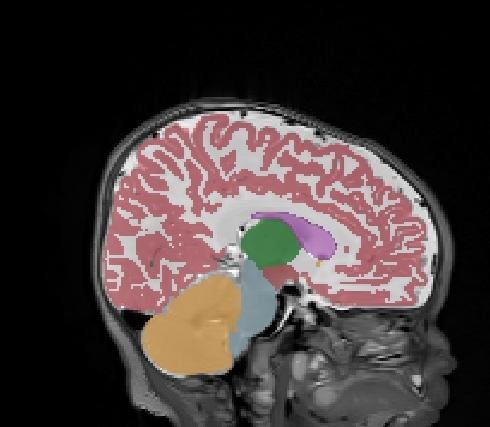
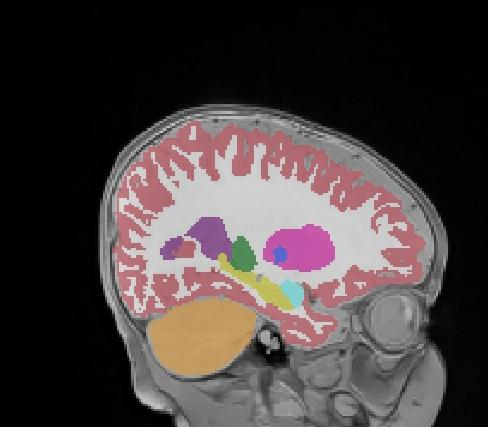
Fix sagittal view so that it's off-center for 4 month old.

diff --git a/doc/tasks/510/slide-show/slide_2.md b/doc/tasks/510/slide-show/slide_2.md
@@ -1,7 +1,7 @@
 ### 0 month: Template 19
 #### Dice (foreground): 0.89
 
-|             | coronal     | sagittal | axial
+|             | coronal     | sagittal (45) | axial
 | ----------- | ----------- | ---- | --- 
 | ground-truth      | ![](../../../../img/Task510/0mo/template_19/coronal/ground_truth.jpg)        | ![](../../../../img/Task510/0mo/template_19/sagittal/ground_truth.jpg) | ![](../../../../img/Task510/0mo/template_19/axial/ground_truth.jpg)
 | predicted   | ![](../../../../img/Task510/0mo/template_19/coronal/inferred.jpg)        | ![](../../../../img/Task510/0mo/template_19/sagittal/inferred.jpg) | ![](../../../../img/Task510/0mo/template_19/axial/inferred.jpg)

diff --git a/doc/tasks/510/slide-show/slide_3.md b/doc/tasks/510/slide-show/slide_3.md
@@ -1,7 +1,7 @@
 ### 4 month: Subject 1
 #### Dice (foreground): 0.84
 
-|             | coronal     | sagittal | axial
+|             | coronal     | sagittal (75) | axial
 | ----------- | ----------- | ---- | --- 
 | ground-truth      | ![](../../../../img/Task510/4mo/subject_01/coronal/ground_truth.jpg)        | ![](../../../../img/Task510/4mo/subject_01/sagittal/ground_truth.jpg) | ![](../../../../img/Task510/4mo/subject_01/axial/ground_truth.jpg)
 | predicted   | ![](../../../../img/Task510/4mo/subject_01/coronal/inferred.jpg)        | ![](../../../../img/Task510/4mo/subject_01/sagittal/inferred.jpg) | ![](../../../../img/Task510/4mo/subject_01/axial/inferred.jpg)
